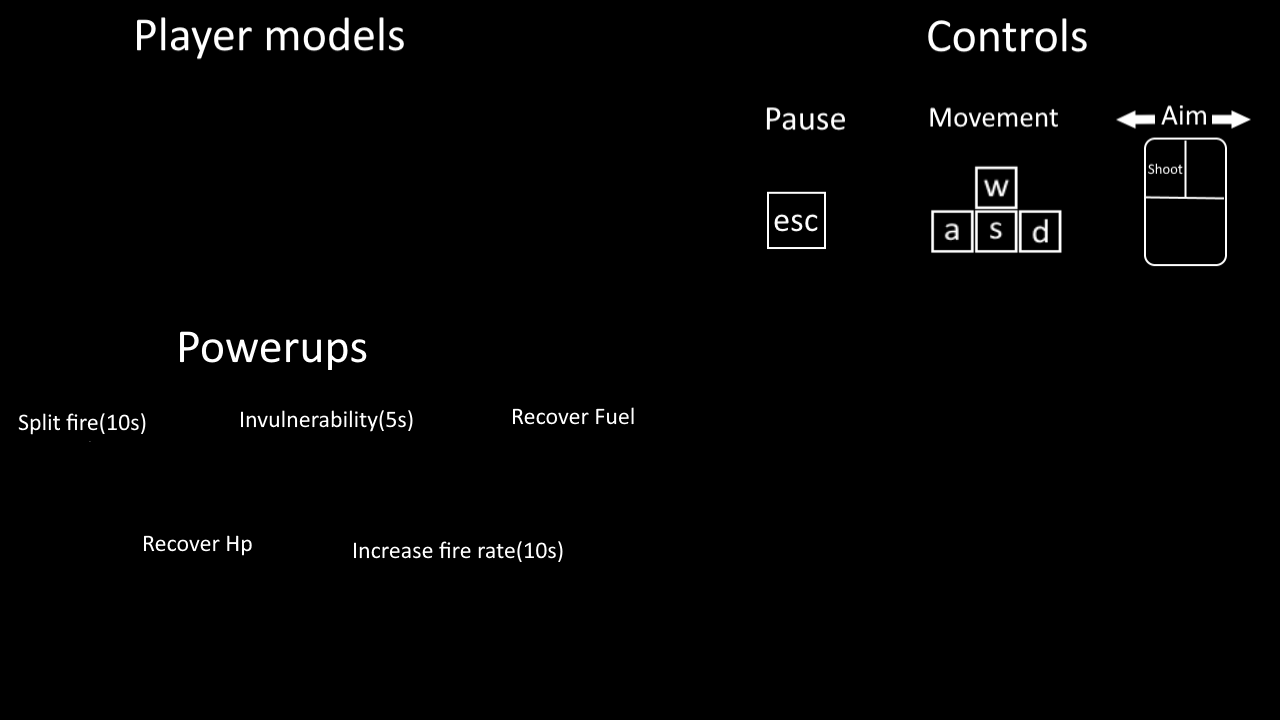
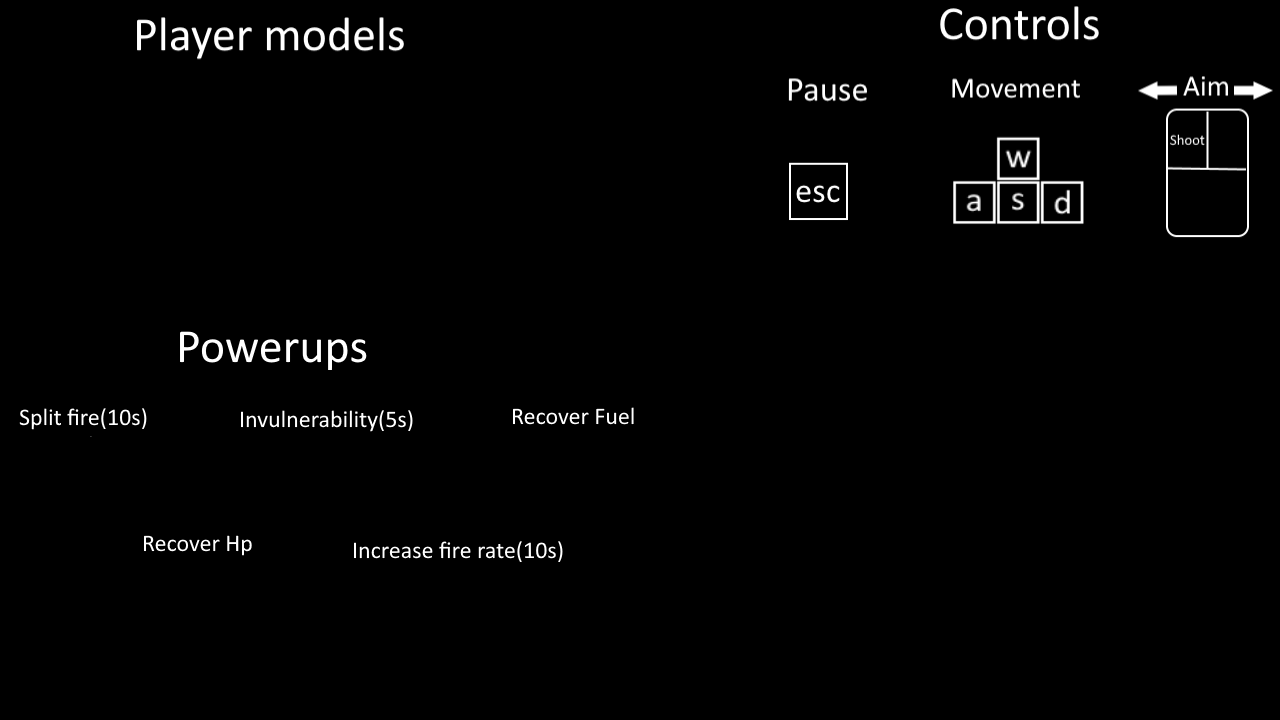
I love jiakeet's fullscreen idea

diff --git a/src/asteroids/help.c b/src/asteroids/help.c
@@ -23,6 +23,7 @@
 #include "final_boss.h"
 #include "enemy.h"
 #include "constants.h"
+#include "main_menu.h"
 
 
 #define BUTTON_WIDTH 150
@@ -33,16 +34,19 @@
 #define LAST_PAGE 5
 #define MODEL_COUNT 6
 #define POWERUP_COUNT 5
+
 Help_screen screen;
 
 CP_Image Page_Image[LAST_PAGE];
 CP_Image playerModel[MODEL_COUNT];
 CP_Image powerupModel[POWERUP_COUNT];
-
-CP_Image Display;
+CP_Image enemyDisplay;
 
 Button BackBtn, NextBtn, ExitBtn;
 
+
+DisplayModel player;
+DisplayModel powerup;
 enum HELP_SCREEN { CONTROLS, MECHANICS, OBSTACLES, FINALBOSS, UPGRADES };
 
 static float current_lifespan = 0.5f;
@@ -79,7 +83,7 @@ void Asteroids_Help_Screen_Init(void)
 		powerupModel[i] = CP_Image_Load(spritePath);
 	}
 
-	Display = CP_Image_Load("./Assets/newasteroids.png");
+	enemyDisplay = CP_Image_Load("./Assets/newasteroids.png");
 	screen.overlay = FIRST_PAGE;
 	warning_lifespan = 2.0f;
 	warning_lifespan = 2.0f;
@@ -116,6 +120,7 @@ void Asteroids_Help_Screen_Init(void)
 	Asteroids_Button_Set_Callback_Void(&Asteroids_Help_Screen_IncreasePageNo, &NextBtn);
 	Asteroids_Button_Set_Callback_Void(&Asteroids_Help_Screen_DecreasePageNo, &BackBtn);
 
+	Asteroids_Help_Initialize_Model_Sizing();
 	Asteroids_Obstacles_Init();
 	Asteroids_Final_Boss_Init();
 	particle_init();
@@ -139,7 +144,6 @@ void Asteroids_Help_Screen_Exit_ToMenu(void)
 
 void Asteroids_Draw_Screen_Page(void)
 {
-	CP_Settings_Background(CP_Color_Create(0, 0, 0, 255));
 	if(screen.overlay < LAST_PAGE)
 		CP_Image_Draw(Page_Image[screen.overlay], screen.pos.x, screen.pos.y, screen.width, screen.height, 255);
 
@@ -199,14 +203,17 @@ void Asteroids_Help_Draw_Controls_Screen(void)
 	rotation += (rotation_rate * CP_System_GetDt());
 	for (int i = 0; i < MODEL_COUNT; i++)
 	{
-		CP_Image_DrawAdvanced(playerModel[i], 50.0f + (125.0f * i), 150.0f, 100, 100, 255, rotation);
+		float y = player.y;
+		if (i % 2 != 0)
+			y = player.y + player.offsetY;
+		CP_Image_DrawAdvanced(playerModel[i], player.x + (player.offsetX * i), y, player.width, player.height, 255, rotation);
 	}
 	for (int i = 0; i < POWERUP_COUNT; i++)
 	{
-		int y = 480;
+		float y = powerup.y;
 		if (i % 2 != 0)
-			y = 600;
-		CP_Image_DrawAdvanced(powerupModel[i], 75.0f + (125.0f * i), (float)y, 50, 50, 255, rotation);
+			y = powerup.y + powerup.offsetY;
+		CP_Image_DrawAdvanced(powerupModel[i], powerup.x + (powerup.offsetX * i), y, powerup.height, powerup.height, 255, rotation);
 	}
 }
 
@@ -216,12 +223,12 @@ void Asteroids_Help_Update_Enemies(void)
 	Enemy* d2 = helpEnemy2;
 	if (d1->active)
 	{
-		CP_Image_DrawAdvanced(Display, d1->pos.x, d1->pos.y, d1->collider.diameter, d1->collider.diameter, 255, d1->rotate_rate);
+		CP_Image_DrawAdvanced(enemyDisplay, d1->pos.x, d1->pos.y, d1->collider.diameter, d1->collider.diameter, 255, d1->rotate_rate);
 		Asteroids_Check_Collision_Blackhole_Enemy_Player(d1, NULL, &Blackhole, 1);
 	}
 	if (d2->active)
 	{
-		CP_Image_DrawAdvanced(Display, d2->pos.x, d2->pos.y, d2->collider.diameter, d2->collider.diameter, 255, d2->rotate_rate);
+		CP_Image_DrawAdvanced(enemyDisplay, d2->pos.x, d2->pos.y, d2->collider.diameter, d2->collider.diameter, 255, d2->rotate_rate);
 		Asteroids_Check_Collision_Gammaray_Enemy_Player(d2, NULL, &GammaRay, 1);
 	}
 }
@@ -291,5 +298,40 @@ void Asteroids_Help_Menu_Spawn_Static_Enemies(void)
 			d2 = Asteroids_Enemy_Spawn(helpEnemy2, 1, CP_Vector_Set((float)WIN_WIDTH * 0.75f, GammaRay.pos.y));
 			respawnTimer2 = respawnTimer;
 		}
+	}
+}
+
+void Asteroids_Help_Initialize_Model_Sizing(void)
+{
+	if (FULLSCREEN)
+	{
+		player.height = 210.0f;
+		player.width = 130.0f;
+		player.x = 100.0f;
+		player.y = 200.0f;
+		player.offsetX = 175.0f;
+		player.offsetY = 175.0f;
+
+		powerup.height = 100.0f;
+		powerup.x = 110.0f;
+		powerup.y = 700.f;
+		powerup.offsetX = 190.0f;
+		powerup.offsetY = 200.0f;
+	}
+
+	if (!FULLSCREEN)
+	{
+		player.height = 125.0f;
+		player.width = 135.0f;
+		player.x = 75.0f;
+		player.y = 150.0f;
+		player.offsetX = 125.0f;
+		player.offsetY = 100.0f;
+
+		powerup.height = 65.0f;
+		powerup.x = 75.0f;
+		powerup.y = 480.f;
+		powerup.offsetX = 125.0f;
+		powerup.offsetY = 120.0f;
 	}
 }

diff --git a/src/asteroids/help.h b/src/asteroids/help.h
@@ -21,6 +21,14 @@ typedef struct Help_Screen
 	float width, height;
 }Help_screen;
 
+typedef struct DisplayModel
+{
+	float x, y;
+	float width, height;
+	float offsetX, offsetY;
+}DisplayModel;
+
+
 void Asteroids_Help_Screen_Init(void);
 void Asteroids_Help_Screen_Update(void);
 void Asteroids_Help_Screen_Exit(void);
@@ -39,3 +47,4 @@ void Asteroids_Help_Sreen_Draw_Warning(void);
 
 void Asteroids_Help_Menu_Spawn_Static_Enemies(void);
 void Asteroids_Help_Update_Enemies(void);
+void Asteroids_Help_Initialize_Model_Sizing(void);
